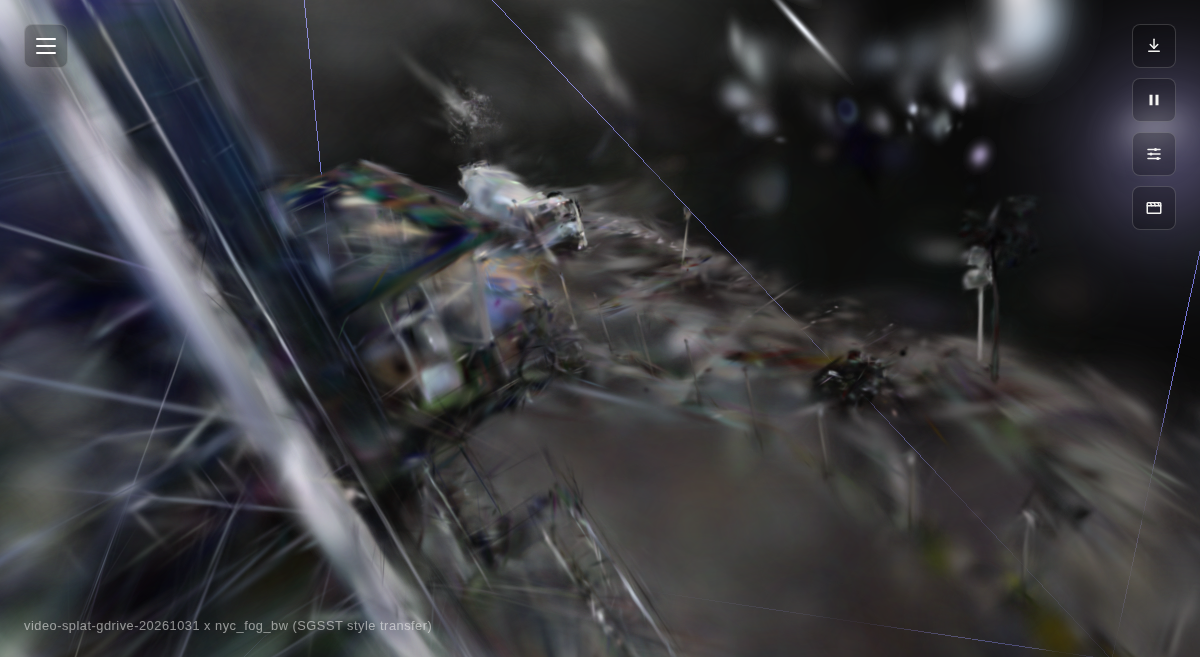
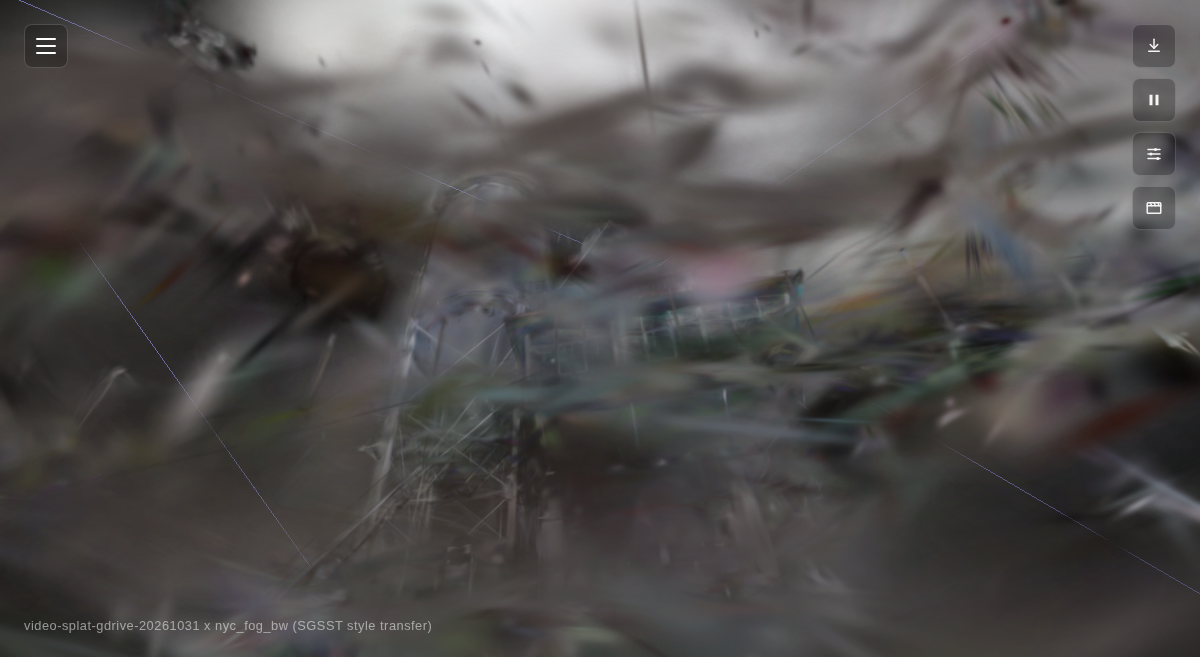
Use fixed camera position across all example screenshots

diff --git a/README.md b/README.md
@@ -35,7 +35,10 @@ repo. It's a real, moderately dense scene, not a cherry-picked easy case.
 
 Both result images show visible dark/desaturated noir-style influence
 from the style image, applied to the real trained geometry — not a
-flat filter.
+flat filter. All three screenshots (original + both modes) are rendered
+at the identical fixed camera position
+(`@-2.434,0.045,1.154,1.94,-0.23,1.333`) for a direct side-by-side
+comparison.
 
 ## Setup
 
